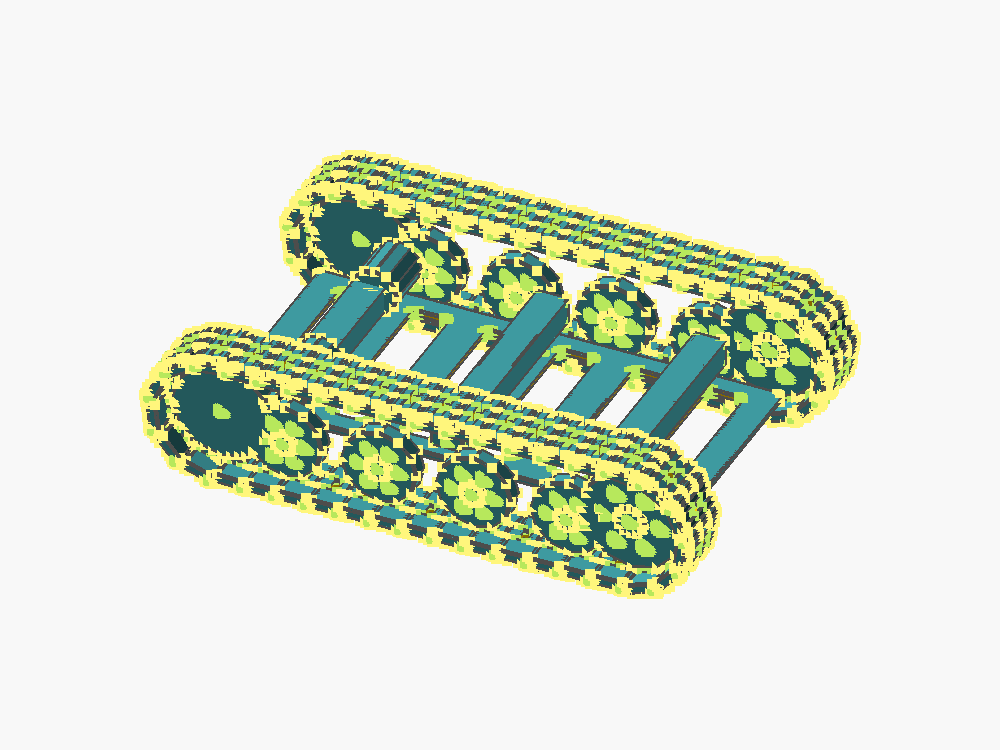
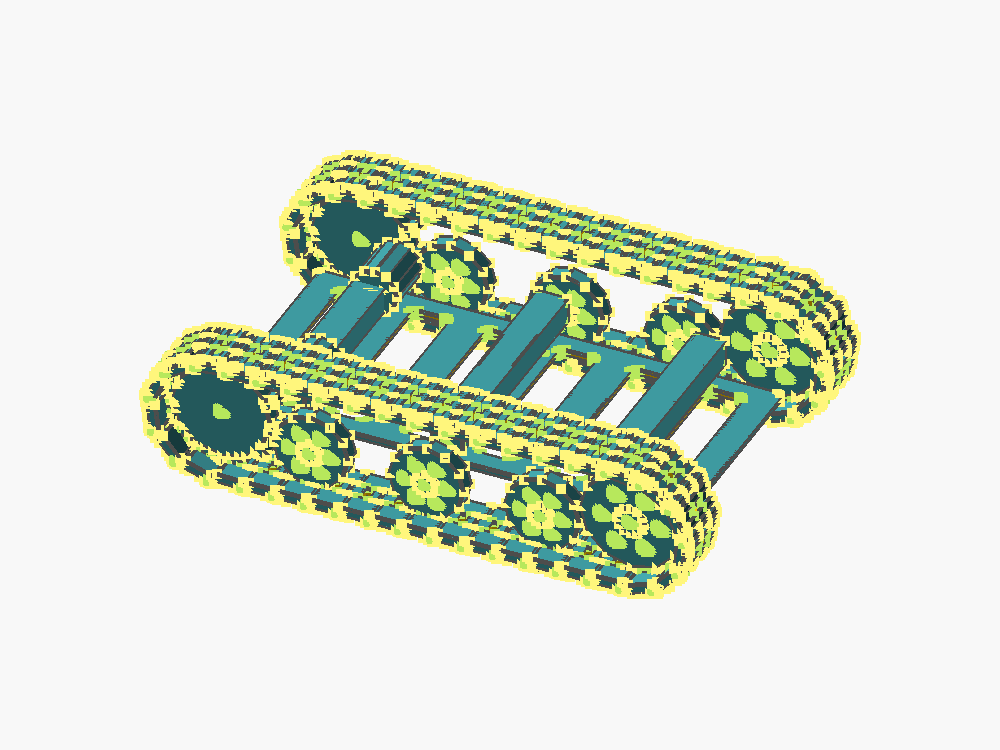
adding idlers

Changed region(s): [[0.248, 0.5213, 0.62, 0.736], [0.403, 0.3067, 0.744, 0.5213]]

diff --git a/assets/narrow_stair_tracker_README.md b/assets/narrow_stair_tracker_README.md
@@ -34,17 +34,31 @@ The integrated system uses:
   either direction
 - 37 actual detailed links on each side of the assembly
 
+## Lower-run support idlers
+
+Each track now has three 70 mm-diameter support idlers at longitudinal positions
+-110, 0, and +110 mm. Every idler is centred across the 55 mm track width. Their
+axles sit at z = 53.758 mm, placing the wheel tangent at z = 18.758 mm against
+the wheel-side face of the straight lower track run.
+
+This is a rigid nominal-contact layout. No spring travel or geometric preload is
+included yet; those belong in the later suspension design. The centre axle bore
+passes through both rail halves at their overlapping frame splice.
+
 The loop is generated from link-centre positions around the pitch circle. The
 reported adjacent-centre spacing is 30.000 to 30.077 mm; the small maximum
 variation occurs at a straight-to-wrap transition.
 
-Two diagnostic selectors were added:
+Three diagnostic selectors are available:
 
 - `drive_collision`: cog against the seven links around the rear drive wrap
 - `idler_collision`: idler against the eight links around the front wrap
+- `support_idler_collision`: three lower support idlers against the 13 links in
+  the straight lower run, with a 0.01 mm allowance that excludes the shared
+  tangent edge and reports only volumetric penetration
 
-Both are expected to render as an empty object. A non-empty result means the
-wheel geometry intersects the links.
+All three are expected to render as an empty object. A non-empty result means
+the wheel geometry intersects the links beyond the documented tangent allowance.
 
 ## X1C printability
 
@@ -73,7 +87,7 @@ Available values:
 - `track_link`
 - `sprocket`
 - `idler`
-- `road_wheel`
+- `support_idler`
 - `rail_front`
 - `rail_rear`
 - `crossmember`
@@ -83,6 +97,7 @@ Available values:
 - `gearbox_plate`
 - `drive_collision`
 - `idler_collision`
+- `support_idler_collision`
 - `dimensions`
 
 Render with F6, then export the selected part as STL.
@@ -106,7 +121,7 @@ Do these before printing a complete set:
 A sensible first build would use:
 
 - Track links: PA6-CF, PAHT-CF, or tough PETG/ASA for cheap iteration
-- Sprocket and idler: PA-CF or PC; avoid ordinary PLA for loaded final parts
+- Sprocket and idlers: PA-CF or PC; avoid ordinary PLA for loaded final parts
 - Frame rails and floor: ASA, PC, or PA-CF
 - Optional traction pads: separate TPU inserts or bonded TPU strips
 - Hinge pins: 3 mm stainless rod or cut-down machine screws
@@ -133,5 +148,7 @@ and whether the rear sprocket axle can remain where it is.
 - Corrected the loop to 37 links per side and aligned its wrap to the 11-tooth
   pitch circle.
 - Added pitch-spacing output and separate drive-cog and idler collision fixtures.
+- Replaced the four road wheels with three track-centred lower-run support idlers
+  per side and moved their axle height to nominal track contact.
 - Updated the assembly dimensions and prototype instructions to match the new
   track system.

diff --git a/assets/narrow_stair_tracker-review/review.md b/assets/narrow_stair_tracker-review/review.md
@@ -17,6 +17,11 @@ stair-climbing drivetrain.
 - Every adjacent link centre is 30.000 to 30.077 mm apart.
 - The rear cog/link intersection fixture is empty.
 - The front idler/link intersection fixture is empty.
+- Three support idlers per side are centred on their tracks at x = -110, 0, and
+  +110 mm.
+- The support idler tangent and lower track wheel-side face both sit at
+  z = 18.758 mm. Exact tangency produces only a zero-area shared edge; with the
+  fixture's 0.01 mm tangent allowance, the volumetric intersection is empty.
 - The standalone link is one connected printable solid.
 - Straight and 32.727-degree articulated link-pair collision fixtures are empty.
 - The cog teeth taper from an 8 mm tangential root to a 5 mm tip, giving angled
@@ -29,10 +34,12 @@ stair-climbing drivetrain.
 2. Turn a six-to-eight-link cog wrap by hand in both directions and inspect tooth
    entry, release, and lateral clearance.
 3. Add positive pin retention before running a complete track.
-4. Add an adjustable idler or another tensioning method; the current front idler
-   position is fixed.
-5. Add lateral guidance or guide horns if the track can walk off the wheels.
-6. Replace the placeholder motor/gearbox interface with a bearing-supported,
+4. Add suspension or preload adjustment for the three lower support idlers; this
+   revision holds them at rigid nominal contact.
+5. Add an adjustable front idler or another tensioning method; its position is
+   currently fixed.
+6. Add lateral guidance or guide horns if the track can walk off the wheels.
+7. Replace the placeholder motor/gearbox interface with a bearing-supported,
    reduced drive sized for the selected motor and vehicle mass.
 
 ## Fit-to-purpose judgment
